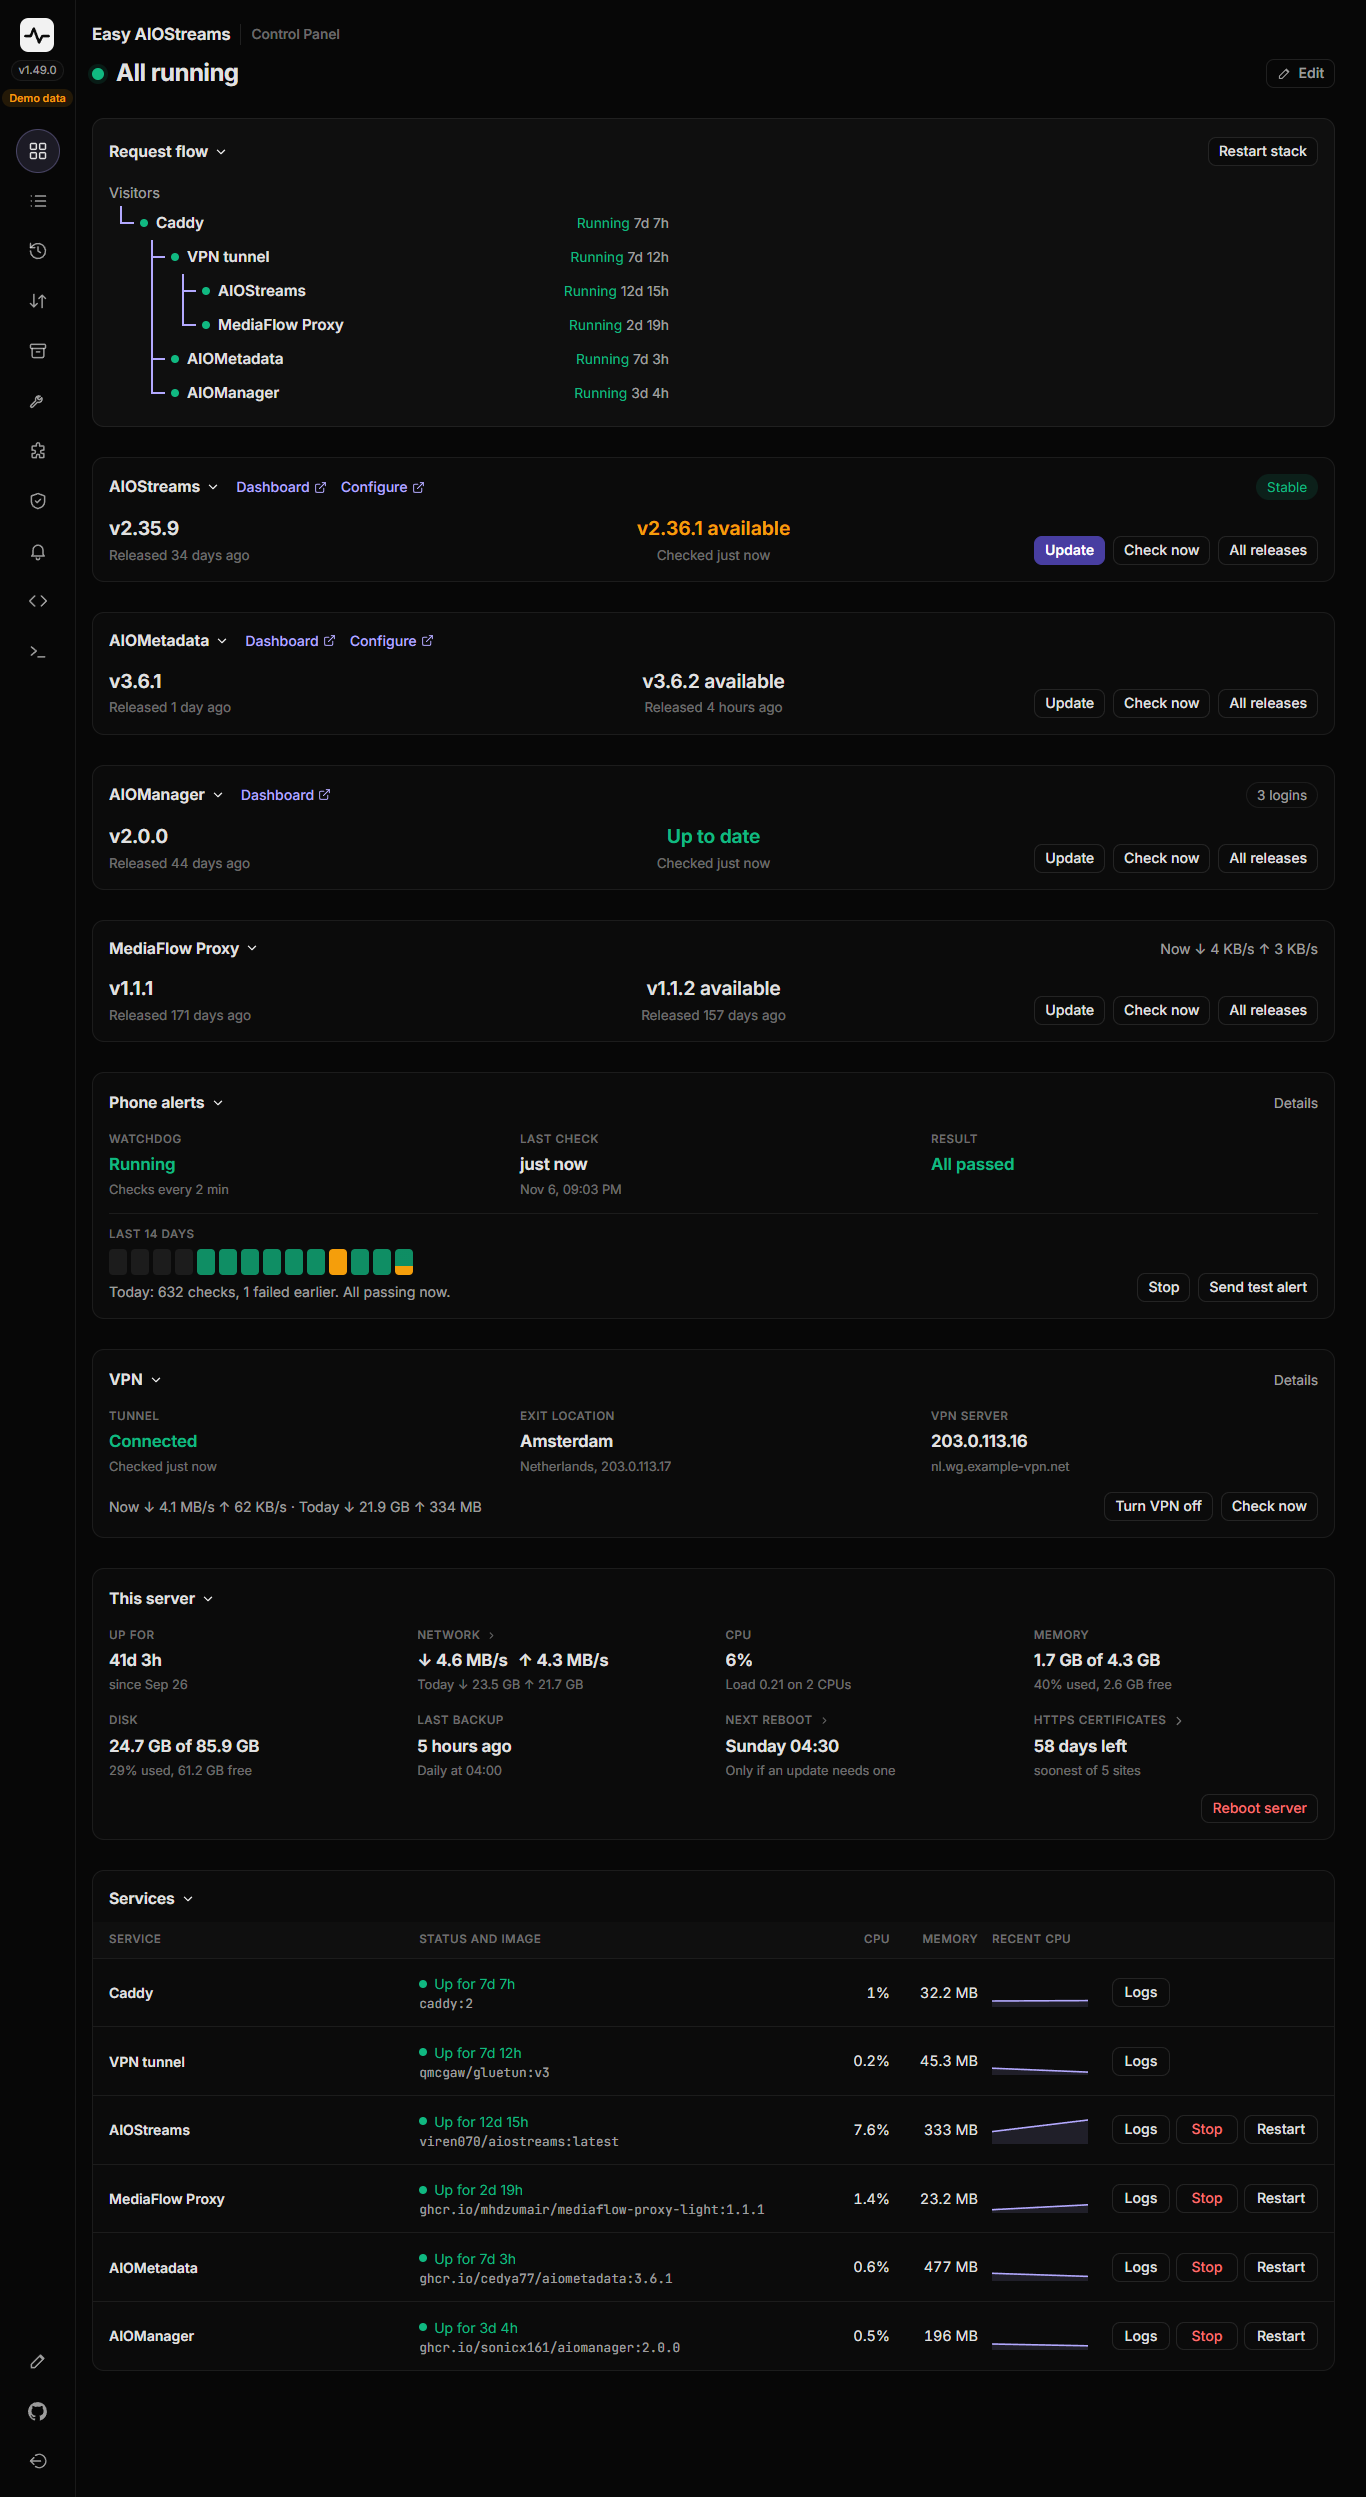
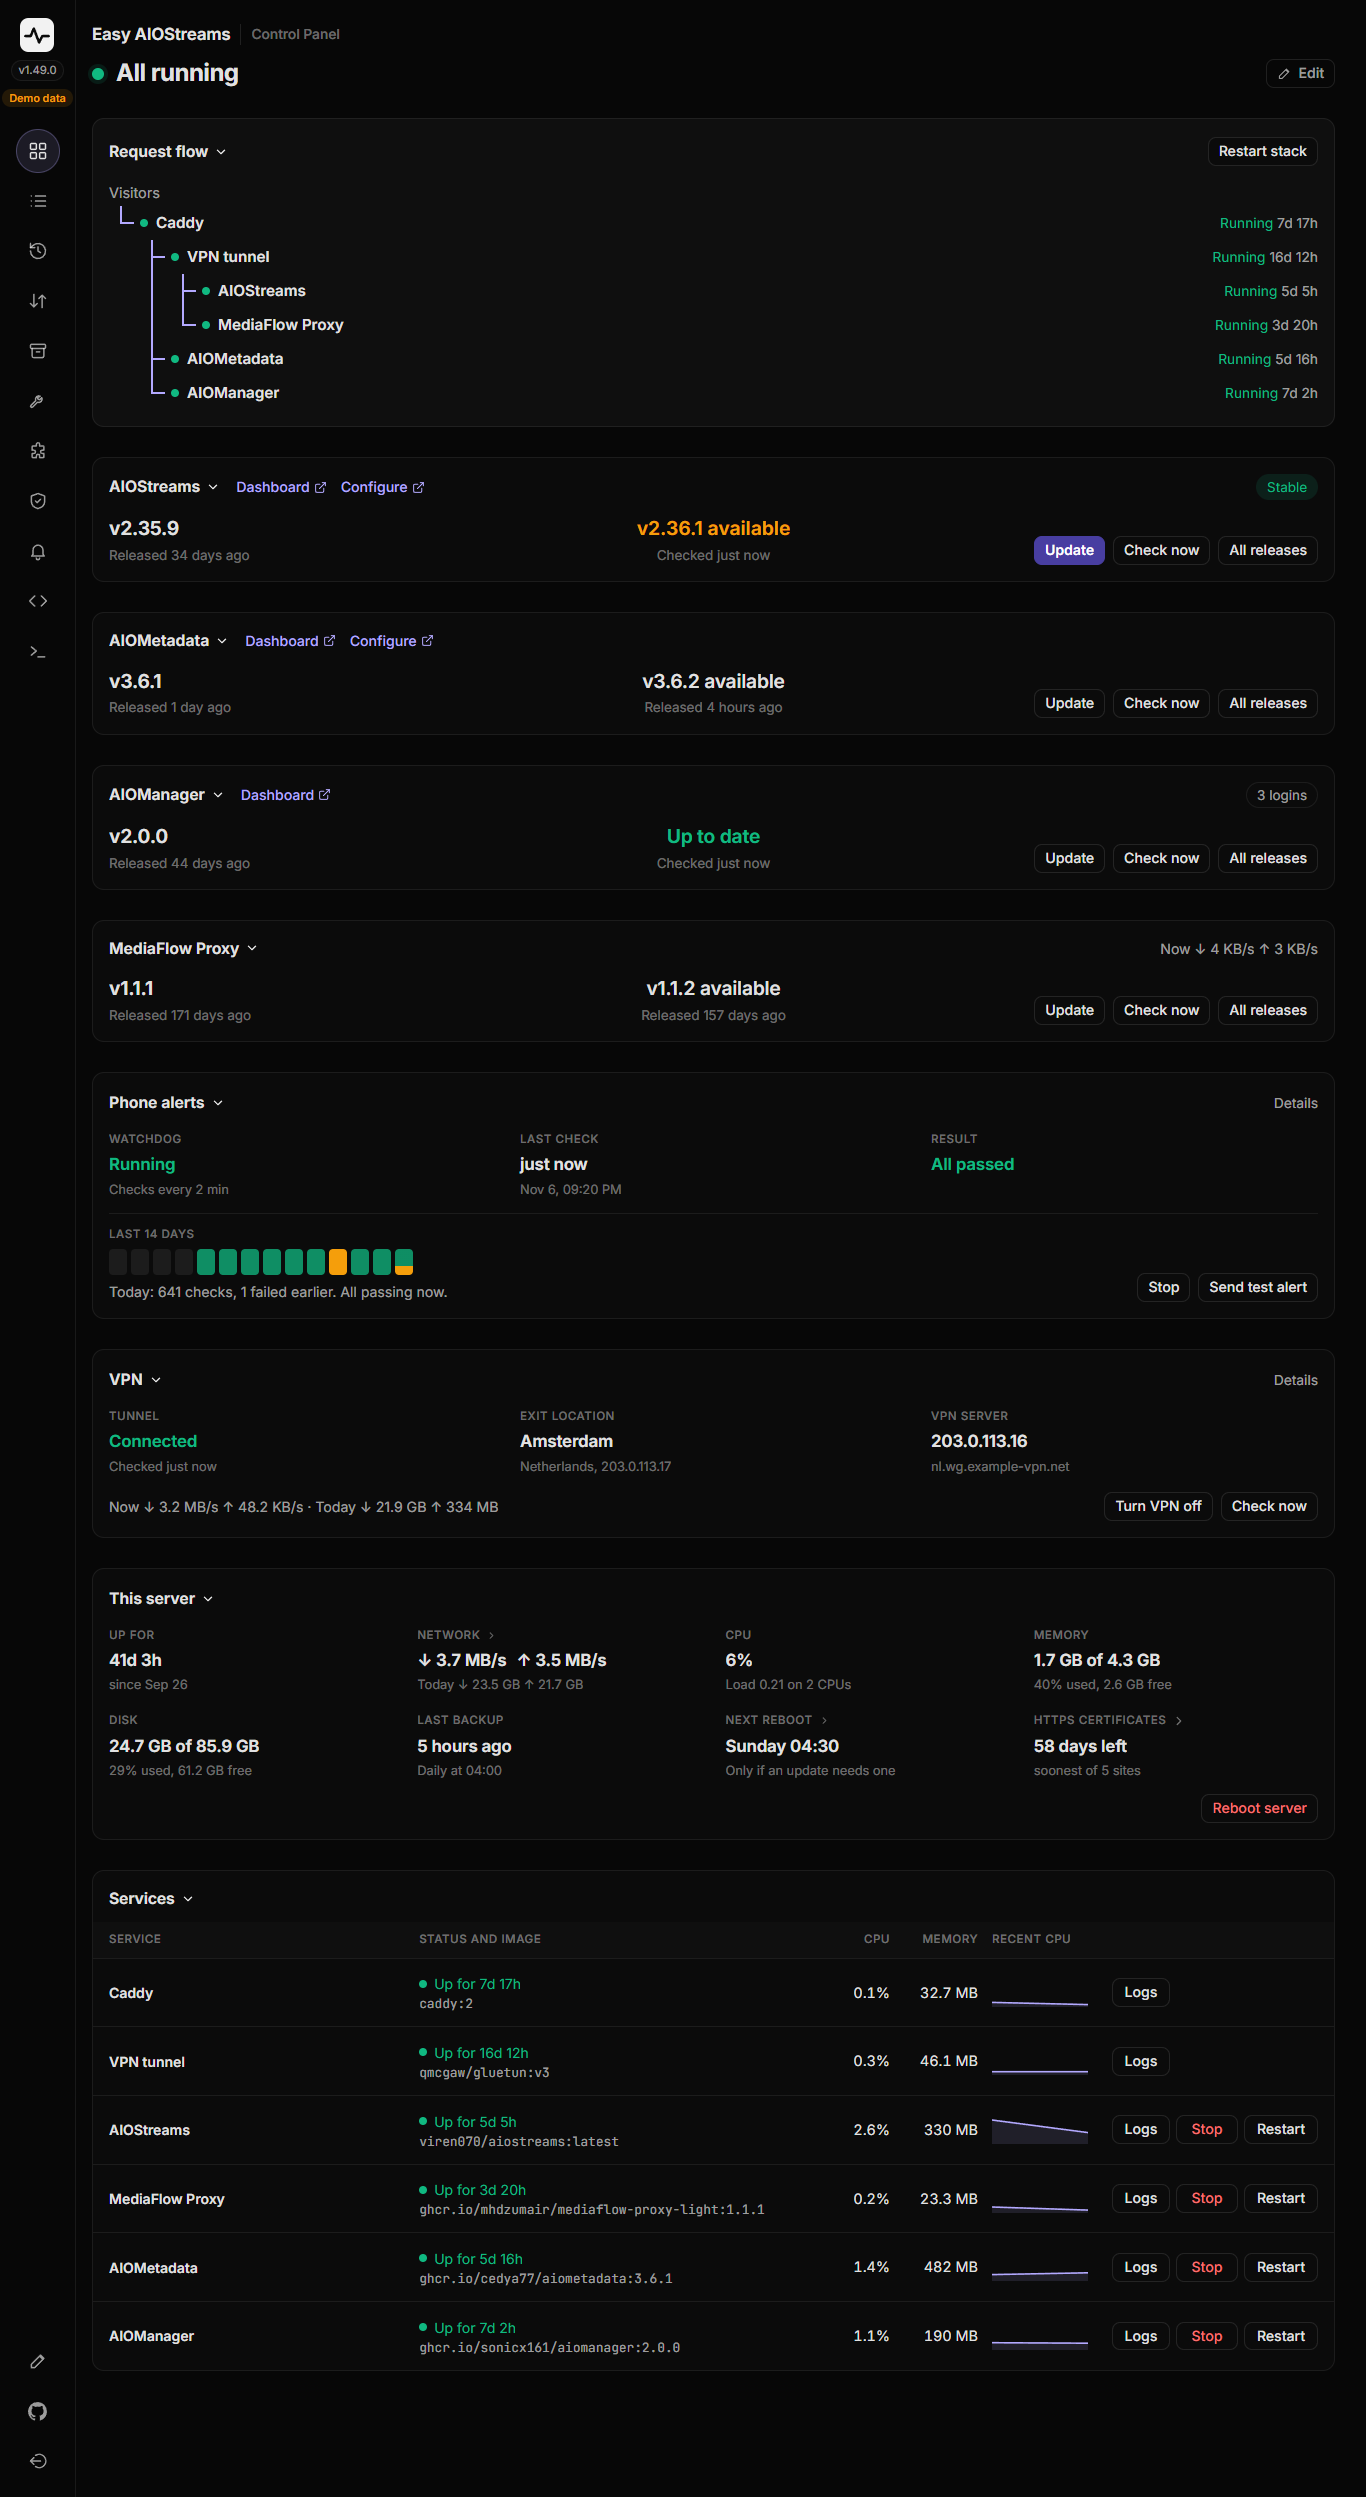
Request flow: uptimes at the card's right edge

diff --git a/control-panel/web/css/app.css b/control-panel/web/css/app.css
@@ -607,7 +607,7 @@ select.input[aria-expanded="true"] { border-color: var(--accent); box-shadow: 0 
 .conf-list { padding: 0; }
 .route-list { padding: 4px 20px; }
 .flow-tree, .flow-tree ul { list-style: none; margin: 0; padding: 0; }
-.flow-tree { margin-top: 10px; max-width: 560px; }
+.flow-tree { margin-top: 10px; }
 .flow-tree ul { padding-left: 11px; }
 .flow-tree ul > li { position: relative; padding-left: 20px; }
 .flow-tree ul > li::before { content: ""; position: absolute; left: 0; top: 0; bottom: 0; width: 2px; background: var(--accent); }
